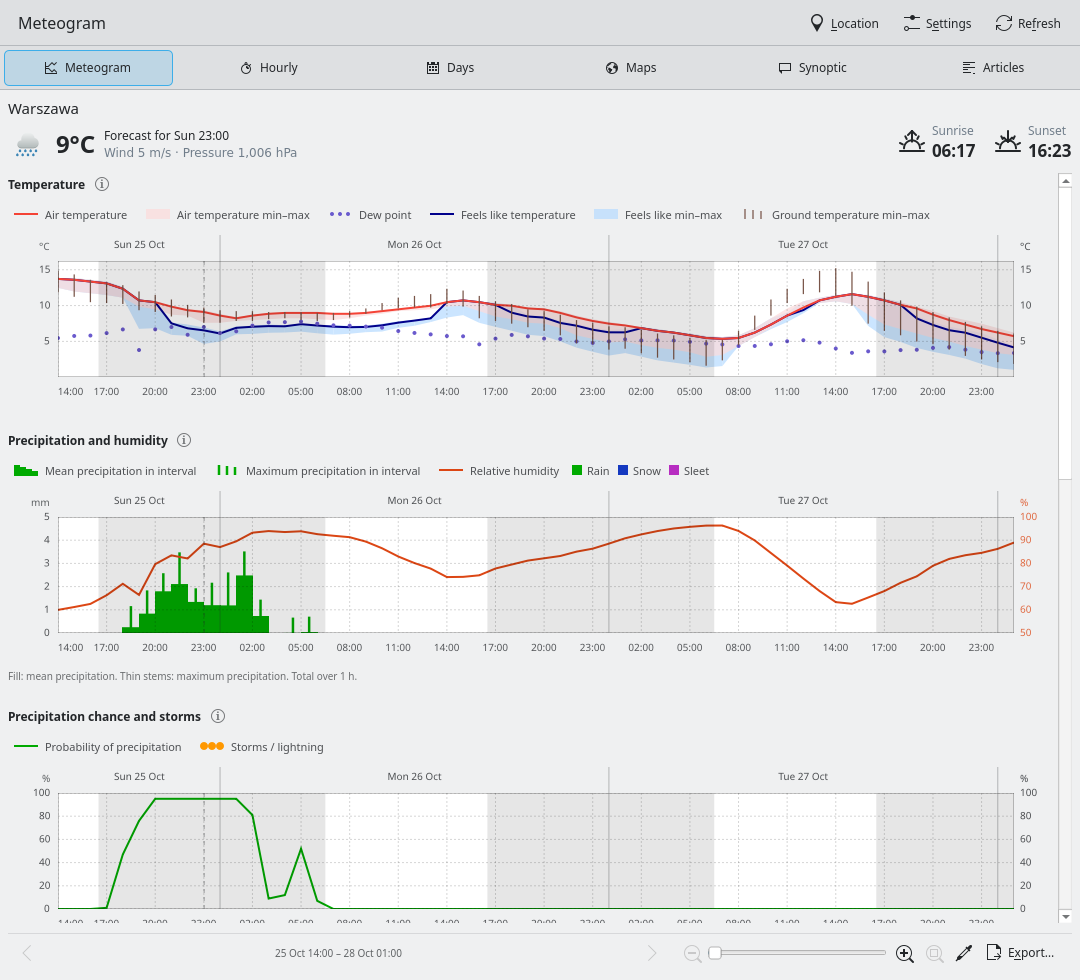
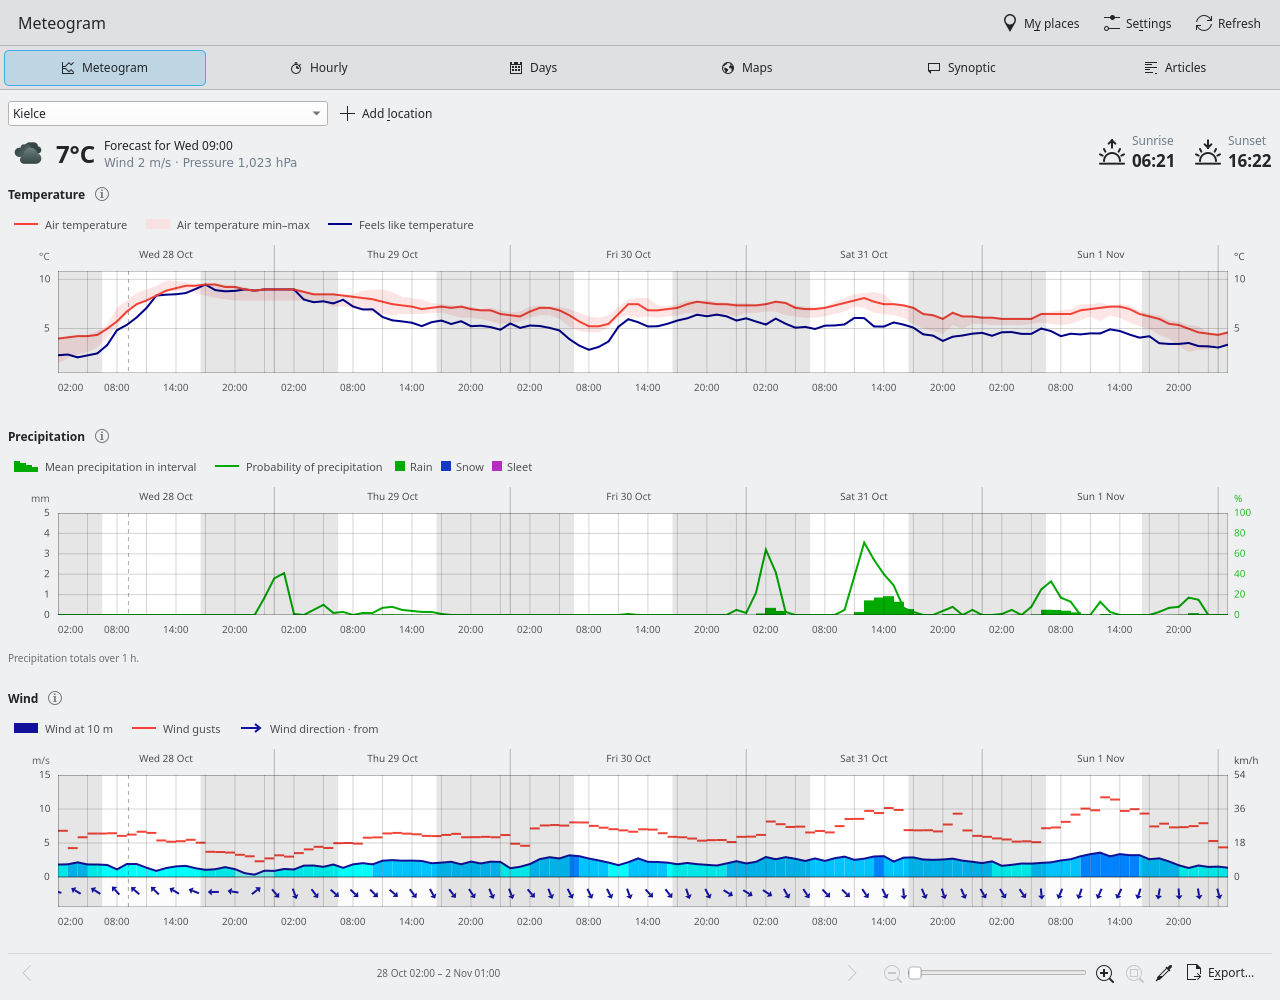
docs: refresh the guide and gallery with real desktop Plasma and Android screenshots

diff --git a/docs/user-guide.pl.md b/docs/user-guide.pl.md
@@ -26,9 +26,14 @@ ctest --preset dev
 ./build/dev/apps/meteo/meteo-pl
 ```
 
-Przycisk **Lokalizacja** otwiera wyszukiwarkę miast i wsi z opisem regionu
-oraz wspólną listę **Moje miejsca**. Można także wskazać punkt na mapie,
-pobrać pozycję przez systemową usługę lokalizacji lub wpisać współrzędne.
+Przy pierwszym uruchomieniu aplikacja prosi o dodanie miejsca. Żadne miasto
+nie jest wybierane automatycznie. Możesz wyszukać miejscowość, wskazać punkt
+na mapie, użyć systemowej lokalizacji albo rozwinąć współrzędne i wpisać je ręcznie.
+Sama nazwa bez wybranego punktu nie wystarczy do zapisania miejsca.
+**Moje miejsca** otwiera osobną listę zapisanych miejsc. **Dodaj lokalizację**
+otwiera pusty formularz, a przycisk edycji przy miejscu pozwala zmienić jego nazwę
+lub położenie. Kliknięcie wiersza wybiera prognozę. Usunięcie miejsca można cofnąć.
+Model prognozy wybierasz osobno w **Ustawienia → Prognoza**.
 GPS wymaga dostępnego dostawcy Qt Positioning; bez niego można użyć wyszukiwarki
 lub mapy. Wyszukiwanie domyślnie obejmuje Polskę, opcjonalnie cały świat.
 Każda otwarta lokalizacja jest zapisywana w **Moich miejscach**. Przy kilku miejscach
@@ -44,6 +49,7 @@ UM4 obejmuje obszar 44,5–66,482°N i 8,21–30,176°E; GFS jest globalny.
 Współrzędne przyjmują kropkę lub przecinek dziesiętny.
 **Ustawienia → O aplikacji** pokazuje autorstwo Kamila Piwowarskiego,
 źródła danych i informacje o aktualnie pobranej prognozie.
+W **Informacjach technicznych** można sprawdzić ścieżkę pliku konfiguracji.
 
 Nagłówek grupuje lokalizację i prognozę na oznaczoną godzinę, temperaturę,
 wiatr i ciśnienie oraz parę godzin wschodu i zachodu słońca z ikonami.
@@ -66,9 +72,9 @@ odczuwalną, rodzaj i prawdopodobieństwo opadów, kierunki i porywy wiatru,
 warstwy oraz podstawy chmur, wilgotność, mgłę, widzialność i wskaźniki burz.
 Brakujące wartości pozostają lukami. Dostępność parametrów zależy od modelu.
 
-Domyślny profil **Klasyczny ICM** zawiera osiem wykresów: temperaturę, opady
-z wilgotnością, szansę opadu i burze, ciśnienie, prędkość wiatru, kierunek
-wiatru, pionowy zasięg chmur z widzialnością oraz zachmurzenie z mgłą.
+Domyślny profil **Klasyczny ICM** zawiera siedem wykresów: temperaturę, opady
+z wilgotnością, szansę opadu i burze, ciśnienie, prędkość i kierunek wiatru,
+pionowy zasięg chmur z widzialnością oraz zachmurzenie z mgłą.
 Temperatura powietrza i odczuwalna mają półprzezroczyste zakresy min–max.
 Zakres temperatury przy gruncie przedstawiają pionowe kreski od minimum do
 maksimum dla każdej godziny prognozy. Błękitne tło wyróżnia obszar poniżej 0°C.
@@ -78,7 +84,7 @@ Linie siatki są delikatne. Etykiety czasu na wąskich wykresach pomijają minut
 i w razie potrzeby pojawiają się rzadziej, bez nakładania się godzin i dat.
 
 Domyślny renderer **GPU** przekazuje geometrię wykresów bezpośrednio do sceny
-Qt Quick (RHI), z wygładzaniem MSAA. W **Ustawienia → Aplikacja → Rysowanie wykresów** można od razu przełączyć na **CPU · Canvas**. Oba renderery używają
+Qt Quick (RHI), z wygładzaniem MSAA. W **Ustawienia → Aplikacja → Wykresy** można od razu wybrać **Renderowanie na CPU**. Oba renderery używają
 tych samych obliczeń, kolorów, warstw i obsługi kursora. Bez akceleracji sceny
 Qt Quick aplikacja automatycznie korzysta z CPU.
 
@@ -97,20 +103,23 @@ Tryb automatyczny dobiera dwie osie według jednostek. Trzecia niezgodna jednost
 wyświetla komunikat: przypisz osie jawnie albo rozdziel serie na kilka wykresów.
 Specjalne symbole (np. wyładowania i kierunek wiatru) są dostępne tylko dla
 odpowiednich parametrów, również po imporcie profilu.
-Przyciski **Importuj…**, **Eksportuj profil…** i **Eksportuj zapisane…**
-przenoszą profile w pliku JSON, razem z wyglądem serii i zakresami osi.
+Przyciski **Importuj…** i **Eksportuj…** przenoszą profile w pliku JSON,
+razem z wyglądem serii i zakresami osi. Przed eksportem wybierasz profile z listy;
+możesz zaznaczyć także niezmienione profile domyślne.
 Wybór pliku korzysta ze standardowego okna środowiska: w KDE z dialogu KDE,
 a w środowisku używającym portalu z XDG Desktop Portal. Aplikacja używa
 `QApplication`, wymaganego przez natywną integrację dialogów KDE.
 Import dodaje nowe profile; zbieżne nazwy otrzymują numer, a istniejące
 profile pozostają zachowane. Jeżeli zapis ustawień się nie powiedzie, aplikacja
 pokazuje błąd i zachowuje poprzednią konfigurację; import można ponowić.
-Eksport zapisanych obejmuje nazwane własne
-profile i zmodyfikowany „Własny układ”. Ulubione lokalizacje i ustawienia
+Import otwiera nowy profil do edycji, zachowując profil używany w prognozie.
+Zapisane lokalizacje i ustawienia
 globalne, takie jak jednostka wiatru i UTC, nie są częścią pliku profili.
 Dotyczy to również wyboru renderera, wspólnego dla aplikacji i plasmoidu.
 Wysokość można ustawić ogólnie, nadpisać w profilu i osobno dla wykresu.
 Obowiązuje pierwsza ustawiona wartość: wykres → profil → ustawienie ogólne.
+Przy polu wysokości widać wartość wynikową i jej źródło. Granice osi przyjmują
+kropkę lub przecinek; błędny zakres pozostaje w formularzu z wyjaśnieniem.
 Wysokości profilu i wykresów są zawarte w eksporcie. Przycisk **ⓘ** bezpośrednio
 przy tytule pokazuje lub ukrywa legendę tego wykresu; globalna opcja
 **Domyślnie pokazuj legendę** określa stan początkowy. Domyślnie legendy są ukryte.
@@ -123,13 +132,23 @@ Menu działa również w plasmoidzie i jest dostępne z klawiatury klawiszem Men
 lub Shift+F10. Zapis PNG zachowuje widoczne serie i wybrany zakres czasu.
 Dolny pasek statusu pokazuje widoczny przedział czasu,
 strzałki przesuwania, suwak powiększenia i przycisk dopasowania całej prognozy.
+Po wyborze zakresu 24/48/72 godzin widok zaczyna się od pierwszej godziny
+prognozy. Na telefonie domyślnie widać pierwsze 72 godziny, a jeśli prognoza
+jest krótsza — całą prognozę. Własny przedział zaczyna się od wskazanej daty.
 Powiększanie zatrzymuje się na 24 godzinach, a dla krótszej prognozy na jej
 pełnym zakresie. Ctrl + kółko myszy również zmienia powiększenie. Podczas
 oglądania fragmentu pojawia się drugi suwak do przesuwania czasu.
 Przycisk **Ustawienia** w górnym pasku otwiera wspólne okno. Zakładka
-**Prognoza** zawiera **Profil wykresów**, **Zakres czasu** i **Start modelu**,
+**Prognoza** zawiera model, **Profil wykresów**, **Zakres czasu** i **Start modelu**.
+**Własny zakres czasu** otwiera kalendarz oraz wybór godzin początku i końca,
+z walidacją dostępnego zakresu i minimalnego powiększenia.
+Zakładka
 **Profile** zawiera edytor wykresów i serii oraz import i eksport profili.
 **Duplikuj profil** tworzy niezależną kopię z gotową nazwą, którą można od razu zmienić.
+Wybór profilu do edycji i import nie przełączają prognozy. Służy do tego osobny
+przycisk **Użyj w prognozie**. Usunięcie profilu, wykresu lub serii oraz przywrócenie
+ustawień domyślnych można cofnąć. Jeśli profil został później zmieniony w innym
+oknie, cofnięcie nie nadpisze tych zmian.
 Każdy profil można edytować, zmienić jego nazwę i usunąć; musi pozostać co
 najmniej jeden profil. **Przywróć domyślne** odtwarza wybrany gotowy profil
 z fabrycznego JSON, a **Przywróć usunięte profile** odzyskuje usunięte gotowe
@@ -141,7 +160,7 @@ zapisuje dotychczasowy układ jako „nazwa (stary)” i wczytuje nowy profil fa
 **Odczyt** — zakres parametrów próbnika i domyślną widoczność legendy,
 a **Aplikacja** — renderer, jednostki, strefę czasu i ogólną wysokość wykresów.
 Formularze korzystają z `Kirigami.FormLayout`, standardowych grup opcji i kontrolek Qt Quick.
-Padding jest wewnątrz kart; pasek kart dochodzi do krawędzi okna. Działania profili
+Nagłówki kart, formularze i dolne przyciski zachowują odstęp od krawędzi okna. Działania profili
 korzystają z `Kirigami.ActionToolBar`, który przy małej szerokości pokazuje menu nadmiarowe.
 Zakres i start dotyczą bieżącego widoku; wybór profilu jest zapamiętywany.
 Lista startów modelu udostępnia krótkoterminowe archiwum publikowane przez serwer.
@@ -189,6 +208,8 @@ Niedawno zapisana prognoza ogranicza powtórne pobrania przy otwieraniu kolejneg
 widoku. Ręczne **Odśwież** zawsze pyta serwer. Gdy pobieranie się nie powiedzie,
 widoczna pozostaje zapisana prognoza z datą pobrania i komunikatem.
 
+Datę komentarza synoptyka wybierasz w kalendarzu; przyszłe dni są niedostępne.
+Na Androidzie można też przesuwać komentarz w lewo lub w prawo, aby zmienić dzień.
 Artykuły i komentarze synoptyka są zapisywane na dysku osobno dla każdej strony
 listy i daty. Przez 30 minut ponowne otwarcie korzysta z zapisu bez sieci.
 Ręczne odświeżenie sprawdza serwer; w razie błędu zachowuje zapisaną treść.

diff --git a/README.md b/README.md
@@ -15,12 +15,17 @@ without leaving your desktop.
 
 [![Meteo displaying a forecast with temperature and precipitation charts](docs/images/meteogram.png)](docs/images/meteogram.png)
 
+*The Quick forecast profile: temperature ranges, precipitation probability,
+wind speed, gusts and direction in one view.*
+
 ## What You Get
 
 - Interactive charts for temperature, precipitation, wind, pressure, clouds,
   visibility, fog and storm indicators, with an optional parameter probe.
   On touchscreens, pinch to zoom, swipe horizontally to move through time,
   and double-tap to restore the full forecast. Vertical swipes scroll the charts.
+  Mobile meteograms initially show the first 72 hours, or the entire forecast
+  when it is shorter. Selecting a time interval starts at the beginning of the forecast.
 - UM4 forecasts for Poland and Central Europe, and global GFS forecasts.
 - A shared list of saved places: search for a town, choose a point on the map,
   enter coordinates or use the system location service.
@@ -38,6 +43,33 @@ without leaving your desktop.
   searches, with disk usage and clearing controls in Settings.
 - GPU rendering by default, an optional CPU renderer, and automated visual
   comparisons between both renderers.
+
+## Screenshots
+
+These screenshots were captured on 28 October 2026 from the running application
+and Plasma widget with real ICM weather data. The Android image comes from the
+APK running in an Android 15 emulator with its default 72-hour view.
+Click an image to view it at full size.
+
+| Interactive weather map | Thematic maps |
+| :---: | :---: |
+| [![Temperature map with a color legend and saved places](docs/images/map.png)](docs/images/map.png) | [![Thematic pressure map with forecast time and animation controls](docs/images/thematic-maps.png)](docs/images/thematic-maps.png) |
+| Weather layers, saved-place markers and a color legend. | Full forecast images with animation and a fit-to-view option. |
+
+| Parameter readings | Chart profiles |
+| :---: | :---: |
+| [![Pinned chart reading with parameter values and an export action](docs/images/readings.png)](docs/images/readings.png) | [![Profile editor with chart series, style previews and profile import and export](docs/images/profiles.png)](docs/images/profiles.png) |
+| Inspect a forecast time, pin a reading and export its values. | Choose series, adjust their appearance and share profiles as JSON. |
+
+| Application settings | Saved places |
+| :---: | :---: |
+| [![Application settings with chart rendering, units and cache sections](docs/images/settings.png)](docs/images/settings.png) | [![Saved-place manager with separate add, edit and delete actions](docs/images/places.png)](docs/images/places.png) |
+| Rendering, chart height, units and cache controls in dedicated sections. | Switch forecasts, add a place or edit an existing entry. |
+
+| KDE Plasma widget | Android |
+| :---: | :---: |
+| <a href="docs/images/plasma.png"><img src="docs/images/plasma.png" height="540" alt="Plasma popup with temperature and wind charts expanded, other charts collapsed, and a button to open the full application"></a> | <a href="docs/images/android.png"><img src="docs/images/android.png" height="540" alt="Android Material interface showing meteograms, forecast tabs and bottom navigation"></a> |
+| Independently expandable charts inside Plasma's native popup. | Touch navigation with forecast, map and news views. |
 
 ## Install
 

diff --git a/docs/chart-profiles.md b/docs/chart-profiles.md
@@ -40,7 +40,18 @@ factory definitions.
 In **Settings → Profiles**, all profiles can be edited, renamed or deleted.
 **Restore defaults** resets the selected factory profile. **Restore deleted
 presets** recovers removed factory profiles without resetting named user copies.
-At least one profile remains available. Changes are saved in the shared
+At least one profile remains available. Editing, duplicating or importing a profile
+does not switch the forecast; choose **Use for forecast** to apply it. Deleting a
+profile, chart or series and restoring defaults offer **Undo**. Undo only restores
+the affected profile and refuses to overwrite any subsequent changes to it.
+
+**Export…** lets you select any combination of profiles, including untouched
+presets, before opening the platform file picker. Empty axis bounds use automatic
+scaling; invalid ranges remain in the editor with an explanation. Decimal input
+accepts both a dot and a comma. Height fields show the effective value and whether
+it comes from the application, profile or individual chart.
+
+Changes are saved in the shared
 `~/.config/meteo-pl/desktop.ini` preference store, preserving atomic updates
 between the application and Plasma widgets. Existing custom layouts remain
 available.

diff --git a/docs/architecture.md b/docs/architecture.md
@@ -126,7 +126,7 @@ z dialogu platformy Qt, z natywną integracją KDE wymagającą `QApplication`.
 `pl.meteo.chart-profiles`, wersja 1. Zapis jest atomowy (`QSaveFile`). Import
 sprawdza cały dokument przed zmianą ustawień, normalizuje style, nadaje nowe
 identyfikatory i rozróżnia powtarzające się nazwy. Jeden plik może zawierać
-do 100 profili i mieć do 16 MiB. Plik ustawień jest wskazany w edytorze;
+do 100 profili i mieć do 16 MiB. Plik ustawień jest wskazany w informacjach technicznych okna „O aplikacji”;
 domyślnie to `~/.config/meteo-pl/desktop.ini`.
 Fabryczne profile z `resources/profiles`, katalog i metadane serii z
 `resources/charts` są jedynym źródłem domyślnej konfiguracji wykresów.
